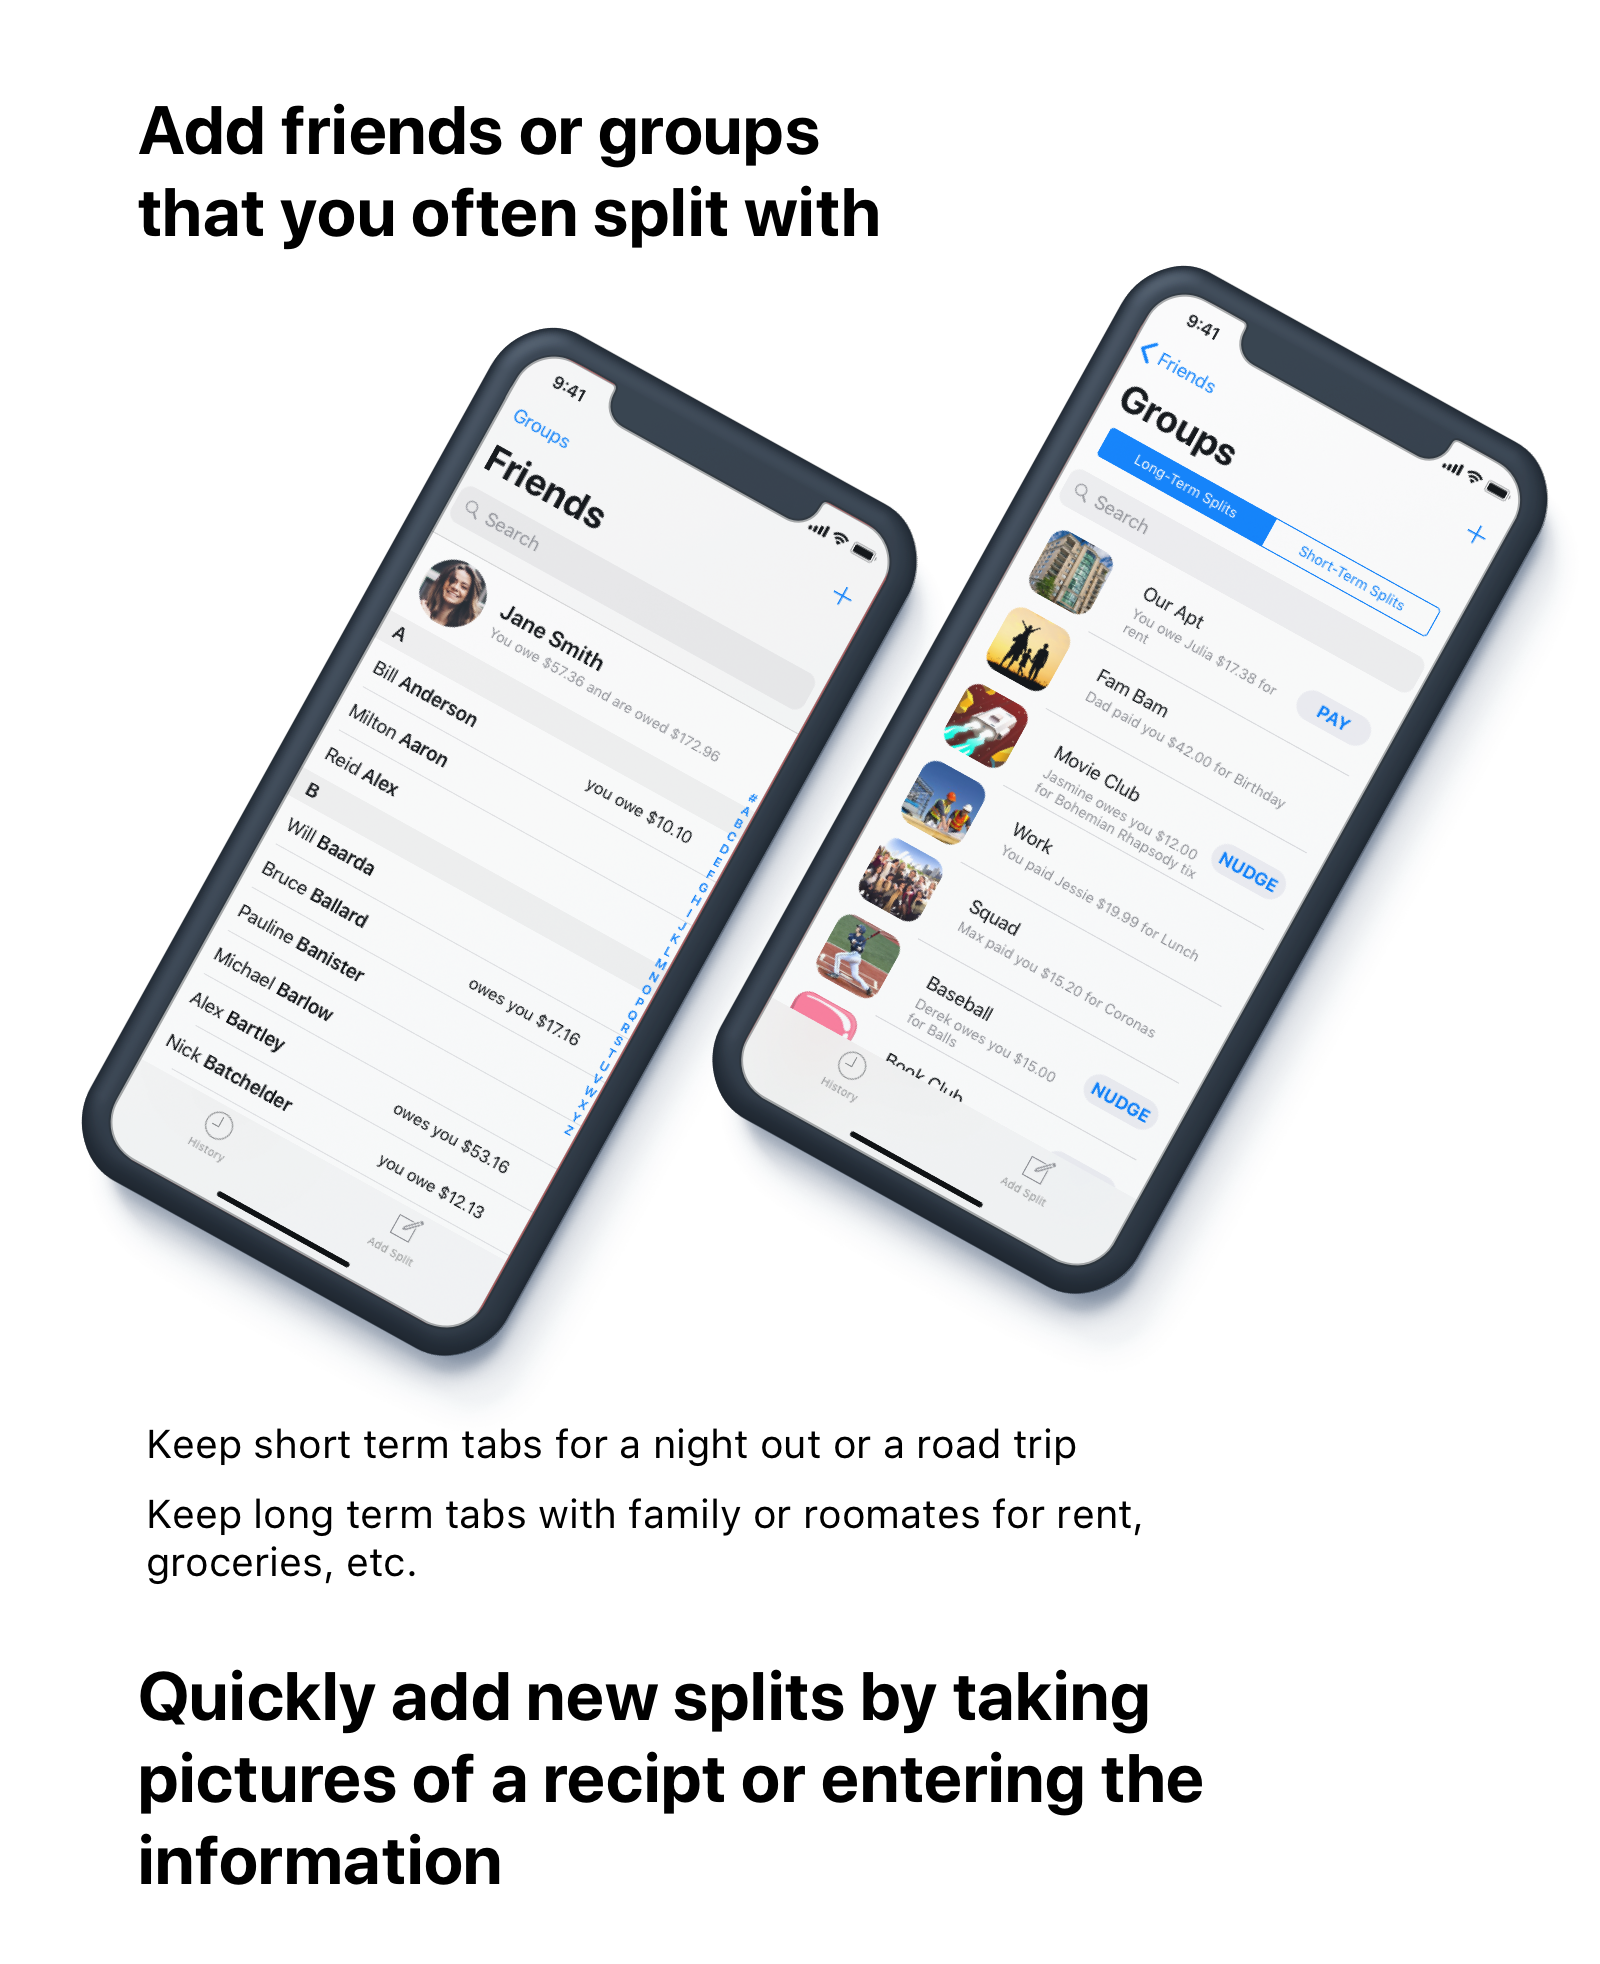
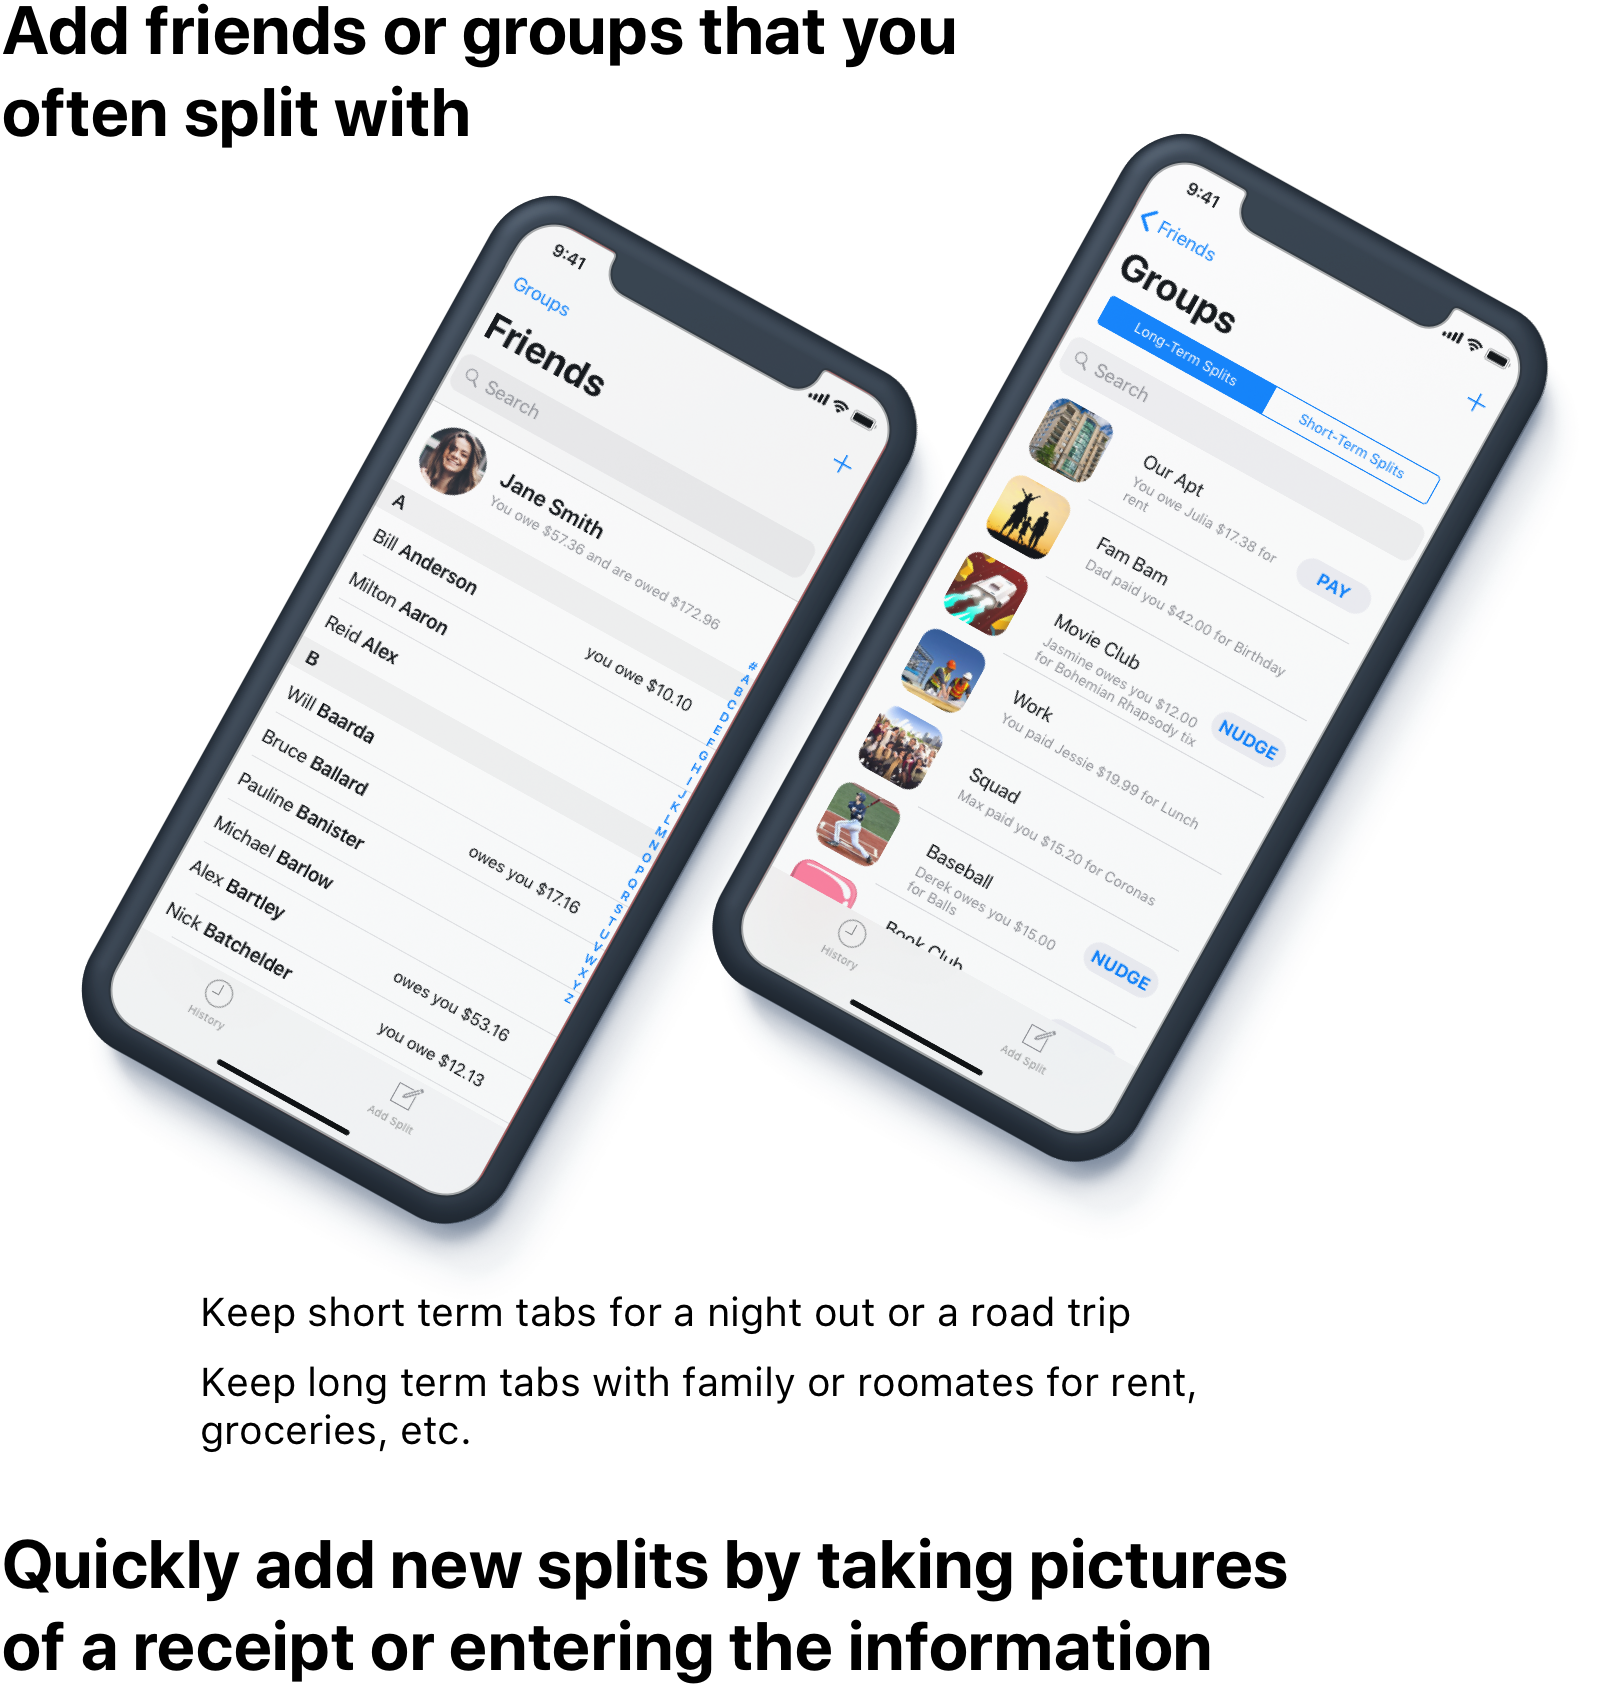
replace tax gif, modify margins

diff --git a/README.md b/README.md
@@ -11,7 +11,7 @@
 ![CARD 3](https://github.com/markab4/split/blob/master/images/Card%203.png?raw=true)
 
 <p align="center"> 
-<img src="https://github.com/markab4/split/blob/master/images/Add%20Tax.gif?raw=true" alt ="ADD TAX WIREFLOW">
+<img src="https://github.com/markab4/split/blob/master/images/Add-Tax.gif?raw=true" alt ="ADD TAX WIREFLOW">
 </p>
 
 ![CARD 4](https://github.com/markab4/split/blob/master/images/Card%204.png?raw=true)
